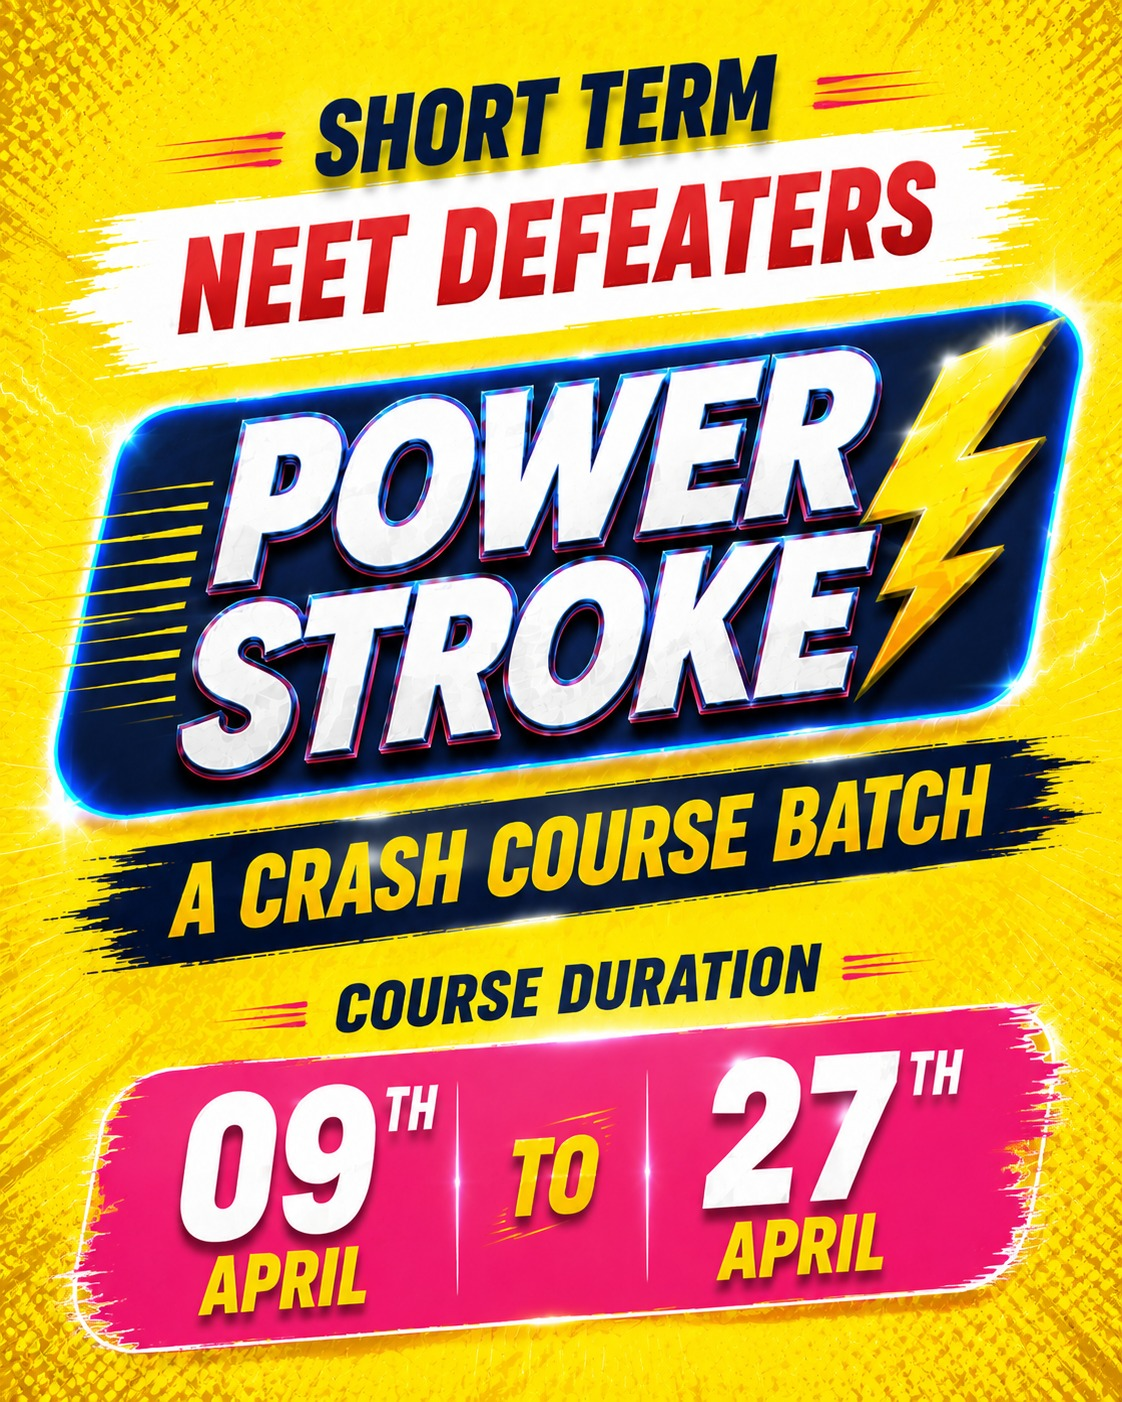
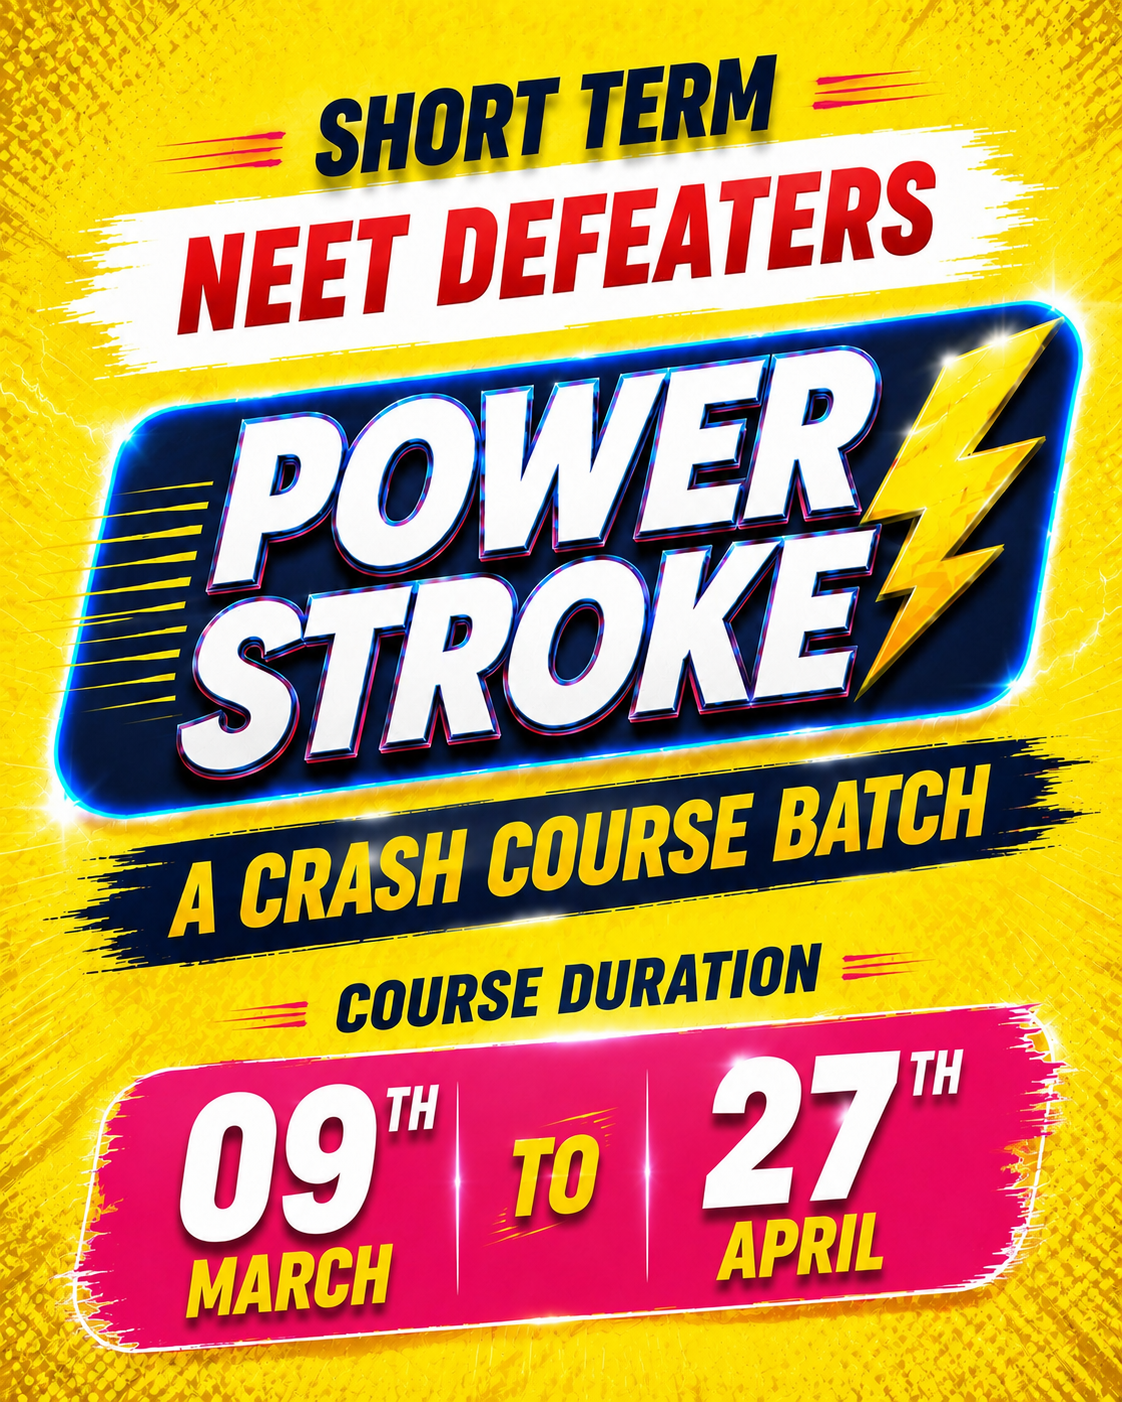
Updated Power Stroke batch card and alumni designation

diff --git a/index.html b/index.html
@@ -251,10 +251,10 @@ From Classrooms to White Coats
 
 <h3>Dr. Shubhanshu Srivastava</h3>
 
-<h4>MD Radiology Resident</h4>
+<h4>MS (Ortho)</h4>
 
 <p>
-LLRM Medical College, Meerut
+Shubhanshu Srivastava Orthopedic Clinic, Kanpur
 </p>
 
 <div class="stars">
